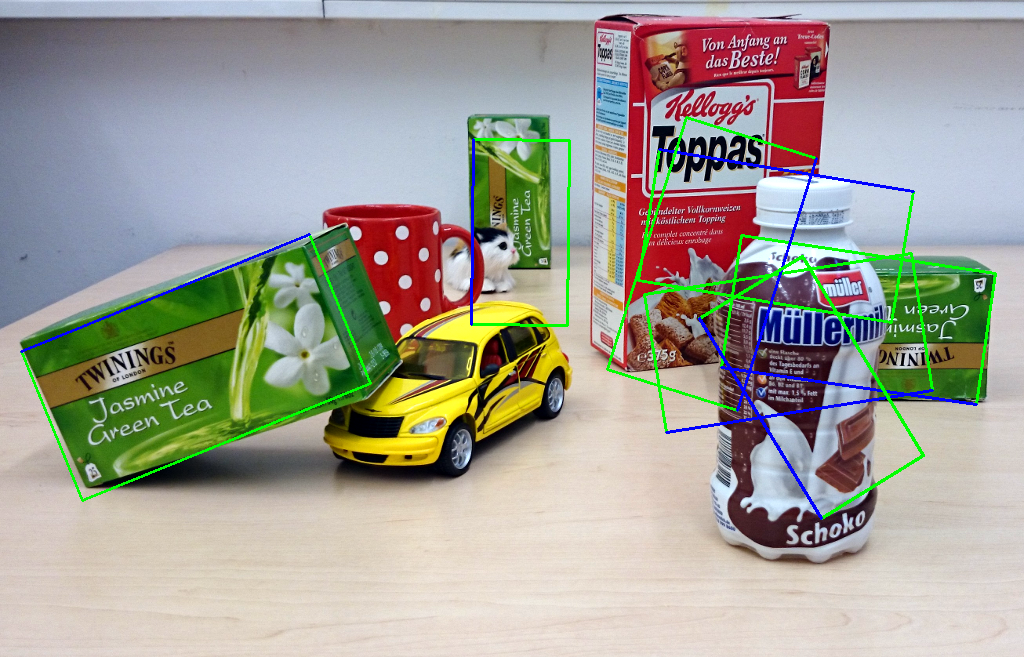
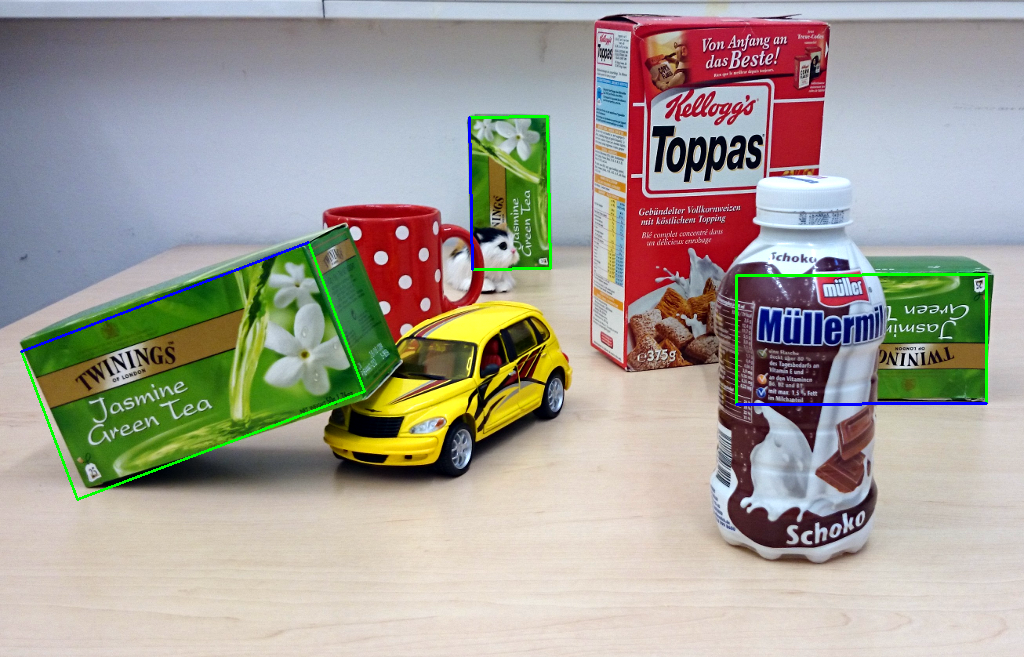
finalization of ex3

diff --git a/exercise3/detect_objects.py b/exercise3/detect_objects.py
@@ -58,11 +58,11 @@ def detect_objects(scene_img: np.ndarray,
     :rtype: np.array with shape (n, 4) with n being the number of detected objects
     """
     ######################################################
-    # Parameters
-    SIFT_THRESHOLD = 350
-    EPS = 0.08
-    MIN_SAMPLES = 11
-    MIN_CLUSTER_DIST = 20
+    # Parameters (defined in report)
+    SIFT_THRESHOLD = 250    # 250
+    EPS = 0.08              # 0.08
+    MIN_SAMPLES = 11        # 11
+    MIN_CLUSTER_DIST = 20   # 20
 
     voting_space = np.zeros((0, 4))
     for matches_obj in matches:
@@ -73,7 +73,7 @@ def detect_objects(scene_img: np.ndarray,
             scn_kp = scene_keypoints[match.trainIdx]
             vote = np.asarray(match_to_params(scn_kp, obj_kp))  # calculate vote for this match
             voting_space = np.r_[voting_space, [vote]]          # add vote to voting space
-    print("Voting space with {:d} elements".format(voting_space.shape[0]))
+    print("{:d} matches considered".format(voting_space.shape[0]))
 
     # Clustering
     clustering_space = np.zeros((voting_space.shape[0], 4))  # Normalised voting space
@@ -81,8 +81,6 @@ def detect_objects(scene_img: np.ndarray,
     clustering_space[:, 1] = voting_space[:, 1] / max(voting_space[:, 1])
     clustering_space[:, 2] = voting_space[:, 2] / max(voting_space[:, 2])
     clustering_space[:, 3] = voting_space[:, 3] / max(voting_space[:, 3])
-
-    # 0.08, 11 for all images
     cluster_labels = sklearn.cluster.DBSCAN(eps=EPS, min_samples=MIN_SAMPLES).fit_predict(clustering_space)
     number_of_clusters = np.max(cluster_labels).astype(int) + 1
     print("{:d} clusters detected".format(number_of_clusters))
@@ -90,7 +88,7 @@ def detect_objects(scene_img: np.ndarray,
     object_configurations = np.zeros((0, 4))
     for label in range(number_of_clusters):
         cluster = voting_space[cluster_labels == label, :]
-        # median of all cluster members is kept
+        # median of all cluster members is kept to mitigate outliers
         object_configurations = np.r_[object_configurations, [np.median(cluster, axis=0)]]
         if debug_output:  # show clusters
             plot_img = draw_rectangles(scene_img, object_img, cluster)
@@ -108,6 +106,7 @@ def detect_objects(scene_img: np.ndarray,
                                                                      object_configurations[cluster_b, 3])
                 object_configurations[cluster_b, :] = 0                          # set lines to be removed to zero
     object_configurations = object_configurations[object_configurations.all(1)]  # get rid of all zero lines
+    print("{:d} objects detected".format(object_configurations.shape[0]))
     ######################################################
 
     return object_configurations

diff --git a/exercise3/report/report.tex b/exercise3/report/report.tex
@@ -150,7 +150,7 @@ As the value of the threshold determines the number of considered matches, it st
 \label{tab:t}
 \end{table}
 
-A major drawback of this method is that it scales only partially to different images. The parameter $t_{SIFT}$ has to be tuned for different types of images to avoid that the aforementioned problems arise, especially if the structure of the image differs notably.
+A major drawback of this method is that it scales only partially to different images. The parameter $t_{SIFT}$ has to be tuned for different types of images to avoid that the aforementioned problems arise, especially if the structure of the images differs notably.
 
 \begin{figure}
 \centering
